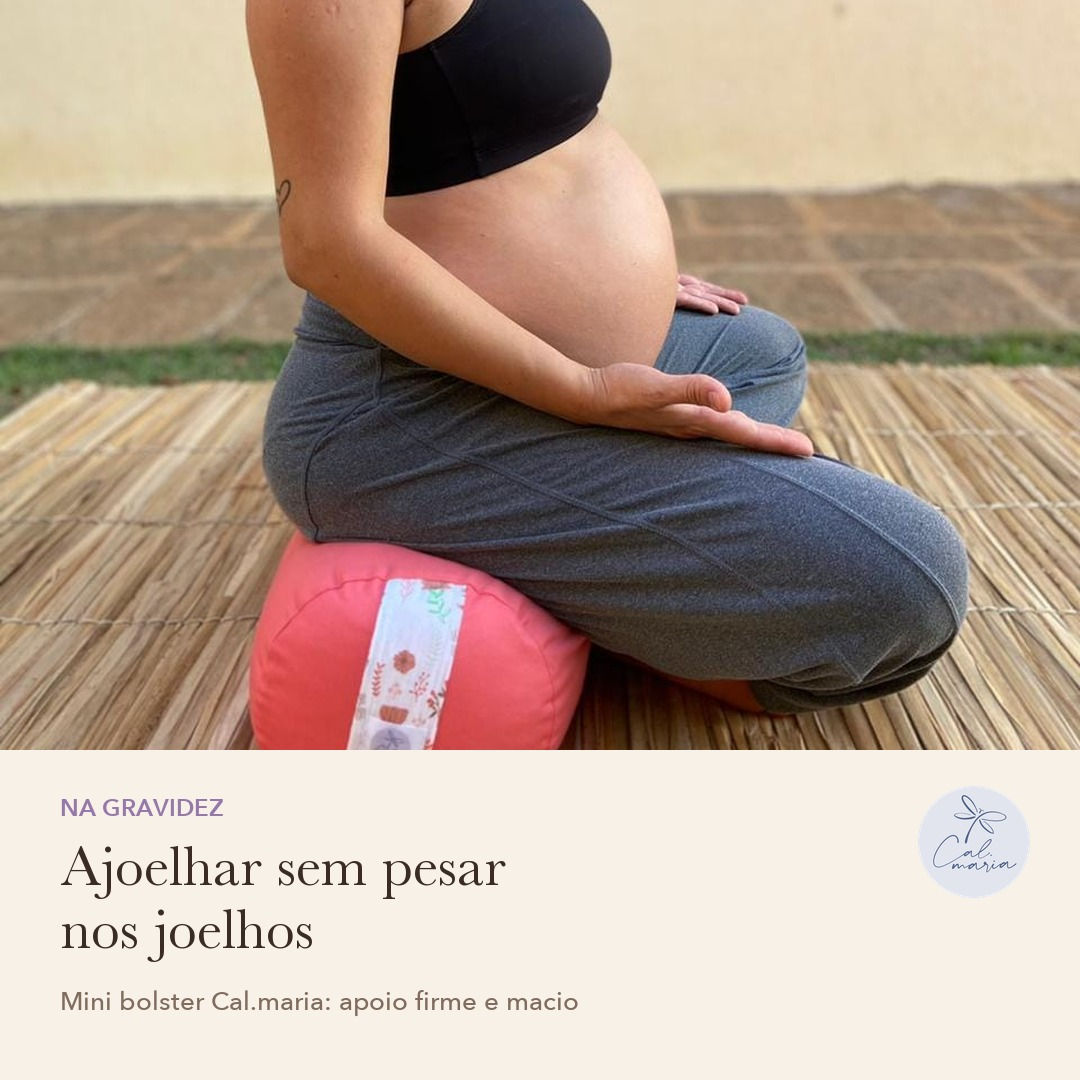
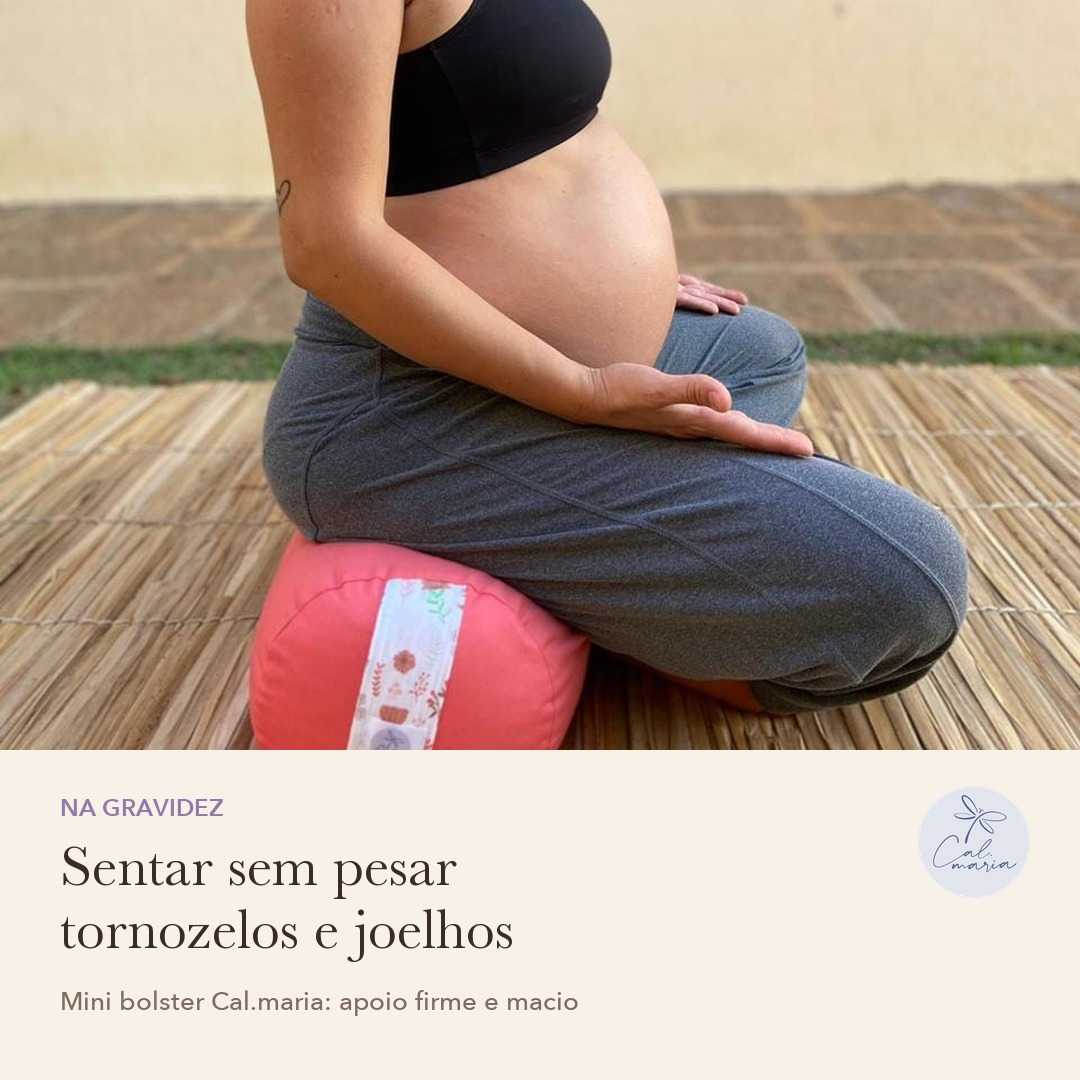
Calmaria: criativos para mães v3 com os ajustes da Tati

Changed region(s): [[0.0611, 0.7639, 0.4583, 0.825], [0.0611, 0.8556, 0.4889, 0.8861]]

diff --git a/calmaria/criativos-maes/index.html b/calmaria/criativos-maes/index.html
@@ -34,9 +34,21 @@ figcaption{font-size:12px;color:var(--sub);margin-top:6px}
 </head>
 <body>
 <main>
-<div class="kick">Cal.maria · para aprovação · 19/11/2026</div>
+<div class="kick">Cal.maria · para aprovação · atualizado em 23/11/2026</div>
 <h1>Criativos para mães e gestantes</h1>
-<p class="lead">Tati, estas são as peças da nova campanha para mães e gestantes, feitas com as suas fotos. Cada uma tem versão para o feed (quadrada) e para os stories (vertical). Os rostos estão desfocados ou ficaram fora do corte. Embaixo de cada peça está o texto que acompanha o anúncio.</p>
+<p class="lead">Tati, estas são as peças da nova campanha para mães e gestantes, feitas com as suas fotos. Cada uma tem versão para o feed (quadrada) e para os stories (vertical). Embaixo de cada peça está o texto que acompanha o anúncio.</p>
+
+<div class="box">
+<h2>O que mudou com os seus ajustes</h2>
+<ul>
+<li><strong>M02:</strong> sem desfoque no rosto.</li>
+<li><strong>M03:</strong> título novo ("Sentar sem pesar tornozelos e joelhos") e a sua legenda.</li>
+<li><strong>M05:</strong> foto nova da girafinha, a que menos mostra o rostinho, com o título "Tummy time com apoio macio" e a sua legenda.</li>
+<li><strong>B03:</strong> título novo ("Apoiar, descobrir e brincar").</li>
+<li><strong>B04:</strong> outra foto da girafinha, com o rostinho desfocado. Na legenda entrou "mamãe" e saiu o "feito à mão".</li>
+<li><strong>B05:</strong> sem desfoque e sem o "feito à mão" na legenda.</li>
+</ul>
+</div>
 
 <div class="box">
 <h2>Para quem</h2>
@@ -57,7 +69,7 @@ figcaption{font-size:12px;color:var(--sub);margin-top:6px}
 <section class="peca">
 <div class="kick">M02 · Na gravidez</div>
 <h2>Um respiro para as costas</h2>
-<p>Postura restaurativa sobre o bolster. Rosto desfocado.</p>
+<p>Postura restaurativa sobre o bolster.</p>
 <div class="imgs">
 <figure><img src="pecas/M02_GESTANTE_COSTAS_FEED_1X1.jpg" alt="Gestante recostada sobre bolster laranja apoiado em blocos"><figcaption>Feed 1:1</figcaption></figure>
 <figure><img src="pecas/M02_GESTANTE_COSTAS_STORY_9X16.jpg" alt="Versão story da mesma peça"><figcaption>Story 9:16</figcaption></figure>
@@ -67,30 +79,30 @@ figcaption{font-size:12px;color:var(--sub);margin-top:6px}
 
 <section class="peca">
 <div class="kick">M03 · Na gravidez</div>
-<h2>Ajoelhar sem pesar nos joelhos</h2>
+<h2>Sentar sem pesar tornozelos e joelhos</h2>
 <p>Gestante de perfil sentada sobre o mini bolster. A cabeça fica fora do corte.</p>
 <div class="imgs">
 <figure><img src="pecas/M03_GESTANTE_JOELHOS_FEED_1X1.jpg" alt="Gestante de perfil sentada sobre mini bolster rosa"><figcaption>Feed 1:1</figcaption></figure>
 <figure><img src="pecas/M03_GESTANTE_JOELHOS_STORY_9X16.jpg" alt="Versão story da mesma peça"><figcaption>Story 9:16</figcaption></figure>
 </div>
-<div class="copy">O mini bolster entra entre os calcanhares e tira o peso dos joelhos e dos tornozelos. Pequeno, firme e cabe em qualquer canto da casa.</div>
+<div class="copy">Mini bolster pequeno e maleável, confortável para sentar e ajustar a postura, e cabe em qualquer cantinho da casa como uma almofada.</div>
 </section>
 
 <section class="peca">
 <div class="kick">M05 · Tummy time</div>
-<h2>Barriguinha pra baixo, com apoio macio</h2>
-<p>Bebê de costas para a câmera, apoiado no mini bolster. Nenhum rosto aparece. O texto já lembra de usar com o bebê acordado e com supervisão.</p>
+<h2>Tummy time com apoio macio</h2>
+<p>Foto nova da girafinha. Como ela é vertical, entra inteira ao lado do texto para não cortar a cabecinha do bebê.</p>
 <div class="imgs">
 <figure><img src="pecas/M05_TUMMY_TIME_FEED_1X1.jpg" alt="Bebê de bruços apoiado em mini bolster verde"><figcaption>Feed 1:1</figcaption></figure>
 <figure><img src="pecas/M05_TUMMY_TIME_STORY_9X16.jpg" alt="Versão story da mesma peça"><figcaption>Story 9:16</figcaption></figure>
 </div>
-<div class="copy">O tummy time fica mais gostoso com um apoio do tamanho certo. O mini bolster Cal.maria ajuda o bebê a sustentar o peito enquanto brinca de bruços. Use sempre com o bebê acordado e com você por perto.</div>
+<div class="copy">O tummy time fica mais gostoso com um apoio do tamanho certo. O mini bolster Cal.maria ajuda o bebê a sustentar e fortalecer o tronco e a cabeça enquanto brinca de bruços. Use sempre com o bebê acordado e com você por perto.</div>
 </section>
 
 
 <section class="peca">
 <div class="kick">B03 · Para o bebê</div>
-<h2>Apoiar, escalar, descobrir</h2>
+<h2>Apoiar, descobrir e brincar</h2>
 <p>Bebê se apoiando no zafu estampado.</p>
 <div class="imgs">
 <figure><img src="pecas/B03_ESCALAR_E_DESCOBRIR_FEED_1X1.jpg" alt="Bebê apoiado sobre zafu estampado, rosto desfocado"><figcaption>Feed 1:1</figcaption></figure>
@@ -102,23 +114,23 @@ figcaption{font-size:12px;color:var(--sub);margin-top:6px}
 <section class="peca">
 <div class="kick">B04 · Presente de Natal</div>
 <h2>Um presente que cresce com o bebê</h2>
-<p>Para quem vai presentear uma mãe ou um bebê no Natal.</p>
+<p>Para quem vai presentear uma mamãe ou um bebê no Natal. Foto da girafinha com o rostinho desfocado.</p>
 <div class="imgs">
 <figure><img src="pecas/B04_PRESENTE_NATAL_FEED_1X1.jpg" alt="Bebê de bruços apoiado em mini bolster verde"><figcaption>Feed 1:1</figcaption></figure>
 <figure><img src="pecas/B04_PRESENTE_NATAL_STORY_9X16.jpg" alt="Versão story da mesma peça"><figcaption>Story 9:16</figcaption></figure>
 </div>
-<div class="copy">Presente para quem acabou de virar mãe: o mini bolster é apoio no tummy time do bebê hoje e no yoga da mamãe amanhã. Feito à mão, em 6 cores.</div>
+<div class="copy">Presente para quem acabou de virar mamãe: o mini bolster é apoio no tummy time do bebê hoje e no yoga da mamãe amanhã. Disponível em 6 cores.</div>
 </section>
 
 <section class="peca">
 <div class="kick">B05 · Suporte e apoio</div>
 <h2>Apoio macio do tamanho dele</h2>
-<p>A foto entra inteira, para mostrar o tamanho do mini bolster ao lado do bebê. Rosto desfocado.</p>
+<p>A foto entra inteira, para mostrar o tamanho do mini bolster ao lado do bebê.</p>
 <div class="imgs">
 <figure><img src="pecas/B05_DO_TAMANHO_DO_MINI_BOLSTER_FEED_1X1.jpg" alt="Recém-nascido enrolado em manta azul ao lado de um mini bolster verde do mesmo tamanho, rosto desfocado"><figcaption>Feed 1:1</figcaption></figure>
 <figure><img src="pecas/B05_DO_TAMANHO_DO_MINI_BOLSTER_STORY_9X16.jpg" alt="Versão story da mesma peça"><figcaption>Story 9:16</figcaption></figure>
 </div>
-<div class="copy">Um apoio do tamanho do seu bebê. O mini bolster Cal.maria é suporte firme e macio para o colo e a amamentação, e depois para o tummy time e o yoga da mamãe. Feito à mão, em 6 cores.</div>
+<div class="copy">Um apoio do tamanho do seu bebê. O mini bolster Cal.maria é suporte firme e macio para o colo e a amamentação, e depois para o tummy time e o yoga da mamãe. Disponível em 6 cores.</div>
 <p style="margin:12px 0 0;font-size:13px">O texto fala de suporte no colo e na amamentação, e não de dormir junto: a orientação dos pediatras é o bebê dormir sem almofadas por perto.</p>
 </section>
 
@@ -126,7 +138,7 @@ figcaption{font-size:12px;color:var(--sub);margin-top:6px}
 <h2>Como aprovar</h2>
 <ul>
 <li>Me diga quais peças aprova, ou o que quer trocar: texto, foto ou cor.</li>
-<li>Se tiver mais fotos, elas viram peças novas. As que mais ajudam: mãe amamentando com o mini bolster ou a meia lua (de lado ou de costas), bebê de bruços no mini bolster visto de cima e o produto no quarto do bebê.</li>
+<li>Quando chegarem as fotos amamentando com o mini bolster e a meia lua, e as do Joaquim de bruços no mini bolster visto de cima, elas viram peças novas aqui.</li>
 </ul>
 </div>
 </main>
